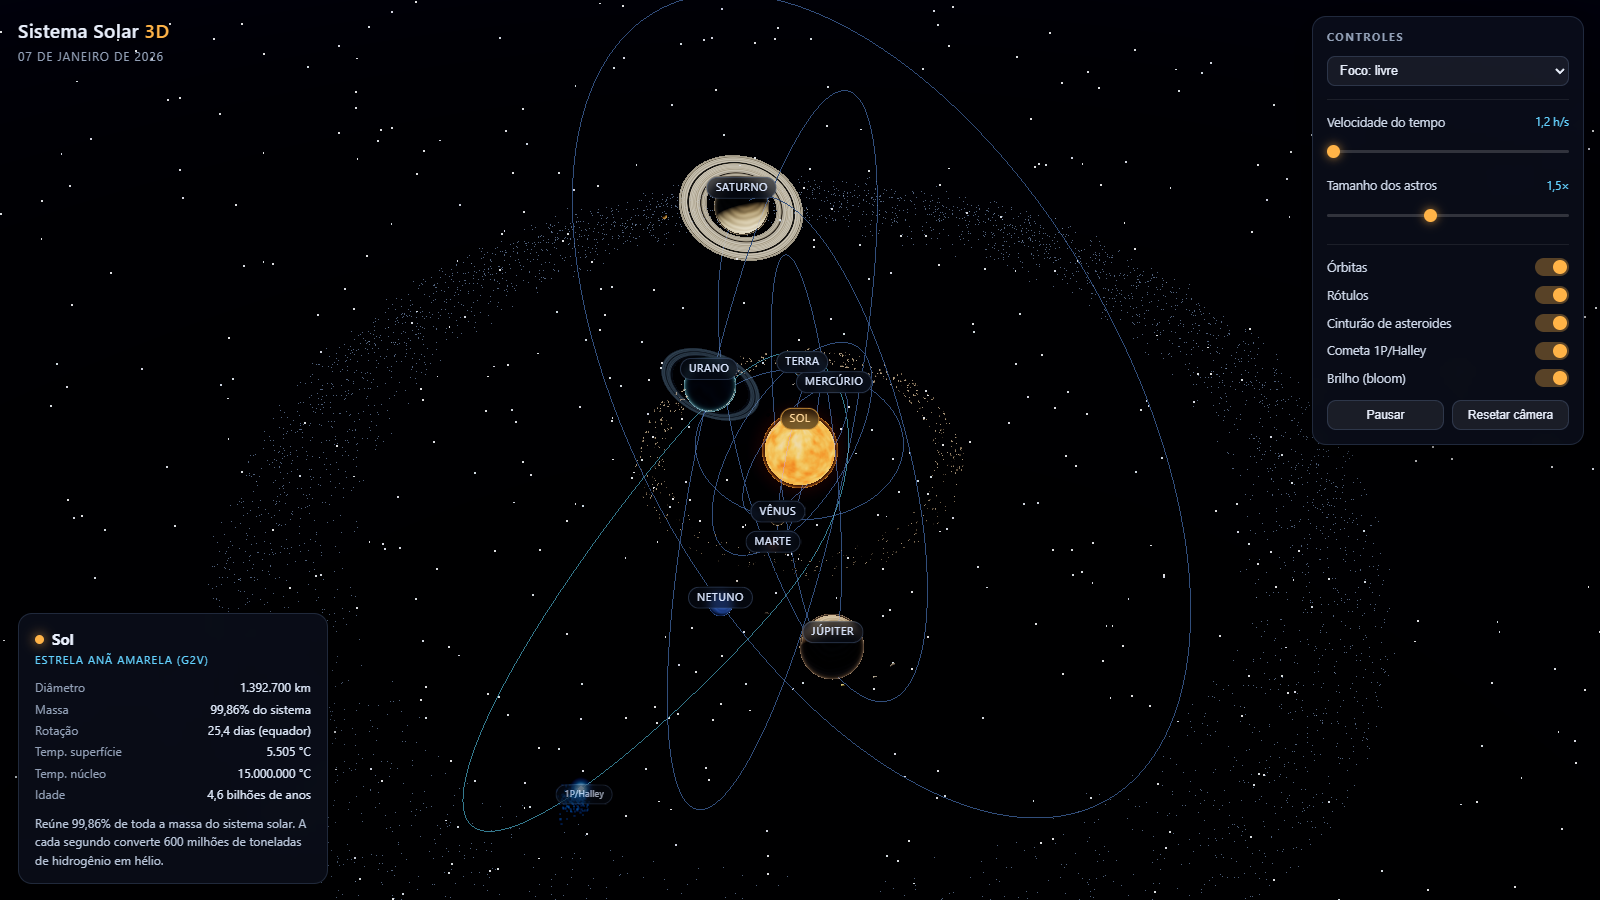
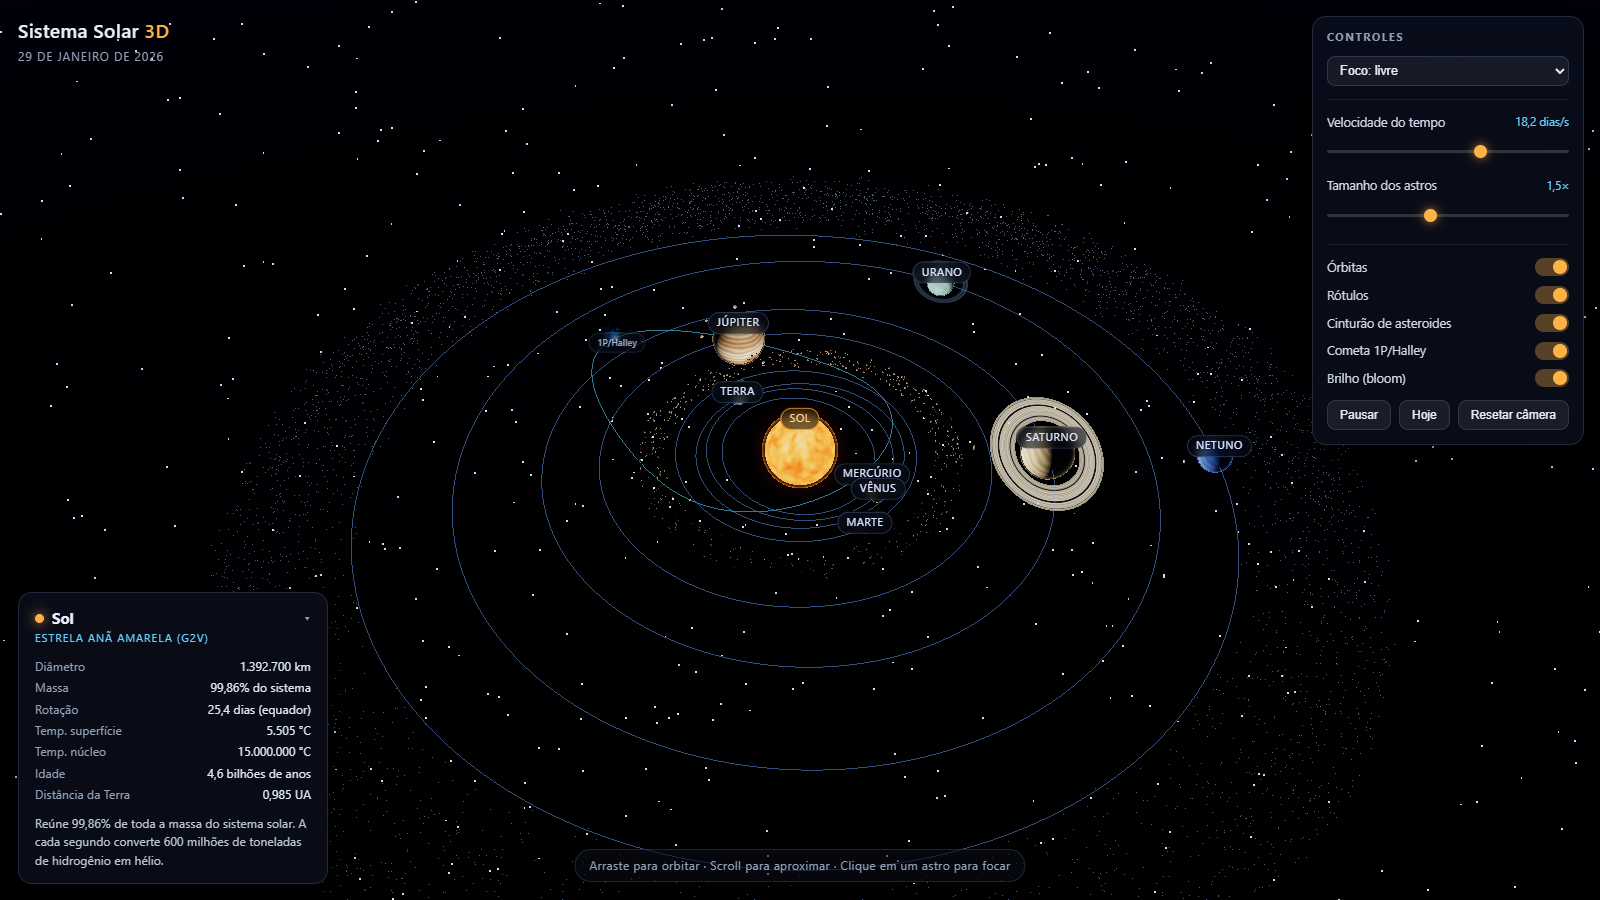
Adiciona botão "Hoje" para saltar para a data atual e atualiza a exibição da distância à Terra com base nas posições reais dos astros.

diff --git a/index.html b/index.html
@@ -88,9 +88,9 @@
     border-radius:8px;padding:6px 8px;font-size:12.5px;outline:none;cursor:pointer
   }
   select option{background:#0b1020}
-  .btns{display:flex;gap:8px;margin-top:12px}
+  .btns{display:flex;flex-wrap:wrap;gap:8px;margin-top:12px}
   button{
-    flex:1;background:rgba(255,255,255,.07);color:var(--txt);border:1px solid var(--brd);border-radius:9px;
+    flex:1 1 auto;background:rgba(255,255,255,.07);color:var(--txt);border:1px solid var(--brd);border-radius:9px;
     padding:7px 8px;font-size:12px;cursor:pointer;transition:background .18s,transform .1s
   }
   button:hover{background:rgba(255,255,255,.14)}
@@ -217,6 +217,7 @@
     <div class="row"><label for="tBloom">Brilho (bloom)</label><input type="checkbox" id="tBloom" checked></div>
     <div class="btns">
       <button id="btnPause">Pausar</button>
+      <button id="btnToday" title="Ir para a data de hoje">Hoje</button>
       <button id="btnReset">Resetar câmera</button>
     </div>
   </section>
@@ -553,6 +554,15 @@ const auToScene = (au) => 9 + 19 * Math.sqrt(Math.max(au, 0));    // distância 
 const radiusToScene = (rEarth) => 1.35 * Math.pow(rEarth, 0.55);  // raio visual
 /* LOD de geometria: corpos pequenos usam menos segmentos (imperceptível na tela) */
 const sphereGeo = (r) => new THREE.SphereGeometry(r, r < 0.3 ? 20 : r < 1 ? 32 : r < 3 ? 48 : 64, r < 0.3 ? 14 : r < 1 ? 24 : r < 3 ? 32 : 48);
+
+/* Posição heliocêntrica em UA: mesmas rotações usadas na cena (Ry(Ω)·Rx(i) sobre o ângulo
+   no plano u = ω + ν), sem a compressão de escala — serve para distâncias reais. */
+function setPosAU(out, p, u, rAU) {
+  const x = rAU * Math.cos(u), y = rAU * Math.sin(u);
+  const si = Math.sin(p.incl * DEG), ci = Math.cos(p.incl * DEG);
+  const sO = Math.sin(p.node * DEG), cO = Math.cos(p.node * DEG);
+  out.set(x * cO - y * ci * sO, y * si, -x * sO - y * ci * cO);
+}
 const MOON_SCALE = 0.55;
 const MOON_DIST = 1.0;
 
@@ -563,9 +573,12 @@ const SUN_INFO = {
   desc: 'Reúne 99,86% de toda a massa do sistema solar. A cada segundo converte 600 milhões de toneladas de hidrogênio em hélio.'
 };
 
+/* Elementos orbitais J2000 (JPL, aproximados): a em UA; incl (i), node (Ω) e w (ω, argumento
+   do periélio) em graus; M0 = anomalia média em J2000 em radianos. As posições são propagadas
+   a partir de J2000 pelo período orbital. */
 const PLANETS = [
   {
-    key: 'mercury', name: 'Mercúrio', a: 0.3871, e: 0.2056, periodYears: 0.2408, incl: 7.005, node: 48, M0: 0.2,
+    key: 'mercury', name: 'Mercúrio', a: 0.3871, e: 0.2056, periodYears: 0.2408, incl: 7.005, node: 48, w: 29.127, M0: 3.0507,
     radiusEarth: 0.383, tilt: 0.034, rotHours: 1407.6,
     tex: { type: 'rocky', base: [150, 140, 130], dark: [72, 66, 62], light: [206, 198, 188], craters: 160, freq: 8, seed: 11, contrast: 1.2 },
     atmo: { color: 0x9fb4d8, strength: 0.12, power: 4 },
@@ -573,7 +586,7 @@ const PLANETS = [
     desc: 'O menor planeta e o mais rápido: completa uma volta ao redor do Sol em apenas 88 dias, mas leva 58,6 dias para girar sobre si mesmo.'
   },
   {
-    key: 'venus', name: 'Vênus', a: 0.7233, e: 0.0068, periodYears: 0.6152, incl: 3.395, node: 77, M0: 2.95,
+    key: 'venus', name: 'Vênus', a: 0.7233, e: 0.0068, periodYears: 0.6152, incl: 3.395, node: 77, w: 54.923, M0: 0.8793,
     radiusEarth: 0.949, tilt: 177.4, rotHours: -5832.5,
     tex: { type: 'gas', seed: 21, bands: 14, contrast: 0.14, stops: [[0, [186, 152, 104]], [0.35, [226, 198, 148]], [0.6, [244, 222, 176]], [1, [206, 182, 138]]] },
     atmo: { color: 0xffd9a0, strength: 0.55, power: 2.6 },
@@ -581,7 +594,7 @@ const PLANETS = [
     desc: 'O planeta mais quente do sistema solar. A densa atmosfera de CO₂ cria um efeito estufa desenfreado — e gira ao contrário de quase todos os planetas.'
   },
   {
-    key: 'earth', name: 'Terra', a: 1.0, e: 0.0167, periodYears: 1.0, incl: 0.0, node: 0, M0: 1.4,
+    key: 'earth', name: 'Terra', a: 1.0, e: 0.0167, periodYears: 1.0, incl: 0.0, node: 0, w: 102.938, M0: 6.2390,
     radiusEarth: 1.0, tilt: 23.44, rotHours: 23.934,
     earth: true,
     atmo: { color: 0x6fb4ff, strength: 0.85, power: 2.4 },
@@ -590,7 +603,7 @@ const PLANETS = [
     desc: 'O único mundo conhecido com água líquida em abundância na superfície — e o único onde a vida foi confirmada.'
   },
   {
-    key: 'mars', name: 'Marte', a: 1.5237, e: 0.0934, periodYears: 1.8808, incl: 1.85, node: 49, M0: 4.5,
+    key: 'mars', name: 'Marte', a: 1.5237, e: 0.0934, periodYears: 1.8808, incl: 1.85, node: 49, w: 286.497, M0: 0.3384,
     radiusEarth: 0.532, tilt: 25.19, rotHours: 24.623,
     tex: { type: 'rocky', base: [176, 96, 58], dark: [104, 52, 34], light: [214, 156, 114], craters: 90, freq: 6, seed: 31, contrast: 1.15 },
     atmo: { color: 0xffb08a, strength: 0.2, power: 3.4 },
@@ -602,7 +615,7 @@ const PLANETS = [
     desc: 'Abriga o Monte Olimpo, o maior vulcão do sistema solar, com 22 km de altura — quase três Everest.'
   },
   {
-    key: 'jupiter', name: 'Júpiter', a: 5.2026, e: 0.0489, periodYears: 11.862, incl: 1.303, node: 100, M0: 3.6,
+    key: 'jupiter', name: 'Júpiter', a: 5.2026, e: 0.0489, periodYears: 11.862, incl: 1.303, node: 100, w: 274.255, M0: 0.3433,
     radiusEarth: 11.209, tilt: 3.13, rotHours: 9.925,
     tex: { type: 'gas', seed: 51, bands: 34, contrast: 0.17, spot: true,
       stops: [[0, [156, 132, 106]], [0.18, [214, 196, 166]], [0.36, [176, 138, 106]], [0.52, [232, 218, 194]],
@@ -618,7 +631,7 @@ const PLANETS = [
     desc: 'O gigante do sistema: caberiam 1.300 Terras em seu interior. A Grande Mancha Vermelha é uma tempestade maior que o nosso planeta, ativa há séculos.'
   },
   {
-    key: 'saturn', name: 'Saturno', a: 9.5549, e: 0.0565, periodYears: 29.457, incl: 2.489, node: 113, M0: 0.75,
+    key: 'saturn', name: 'Saturno', a: 9.5549, e: 0.0565, periodYears: 29.457, incl: 2.489, node: 113, w: 338.937, M0: 5.5389,
     radiusEarth: 9.449, tilt: 26.73, rotHours: 10.656,
     tex: { type: 'gas', seed: 61, bands: 22, contrast: 0.1,
       stops: [[0, [186, 164, 122]], [0.3, [226, 208, 168]], [0.55, [244, 232, 200]], [0.8, [216, 196, 156]], [1, [178, 156, 120]]] },
@@ -632,7 +645,7 @@ const PLANETS = [
     desc: 'Seus anéis se estendem por 280 mil km, mas têm em média só 10 metros de espessura. É menos denso que a água: flutuaria num oceano gigante.'
   },
   {
-    key: 'uranus', name: 'Urano', a: 19.2184, e: 0.0457, periodYears: 84.02, incl: 0.773, node: 74, M0: 2.2,
+    key: 'uranus', name: 'Urano', a: 19.2184, e: 0.0457, periodYears: 84.02, incl: 0.773, node: 74, w: 96.937, M0: 2.4833,
     radiusEarth: 4.007, tilt: 97.77, rotHours: -17.24,
     tex: { type: 'gas', seed: 71, bands: 10, contrast: 0.07,
       stops: [[0, [140, 200, 208]], [0.45, [178, 226, 232]], [1, [148, 208, 216]]] },
@@ -643,7 +656,7 @@ const PLANETS = [
     desc: 'Gira deitado: seu eixo é inclinado 98°, provavelmente por uma colisão colossal. Cada polo passa 42 anos na luz e 42 na escuridão.'
   },
   {
-    key: 'neptune', name: 'Netuno', a: 30.1104, e: 0.0113, periodYears: 164.79, incl: 1.77, node: 131, M0: 5.1,
+    key: 'neptune', name: 'Netuno', a: 30.1104, e: 0.0113, periodYears: 164.79, incl: 1.77, node: 131, w: 273.181, M0: 4.5364,
     radiusEarth: 3.883, tilt: 28.32, rotHours: 16.11,
     tex: { type: 'gas', seed: 81, bands: 14, contrast: 0.09,
       stops: [[0, [36, 68, 158]], [0.4, [66, 108, 208]], [0.7, [104, 148, 232]], [1, [46, 84, 176]]] },
@@ -661,12 +674,14 @@ const ACCENTS = {
 };
 PLANETS.forEach((p) => { p.accent = ACCENTS[p.key]; });
 
-const COMET = { a: 17.834, e: 0.967, incl: 162.26, node: 58.42, M0: 1.0, periodYears: 76.0 };
+/* 1P/Halley — elementos do retorno de 1986 (ω, Ω e inclinação J2000); período e M0
+   calibrados para reproduzir os periélios de 09/02/1986 e 28/07/2061. */
+const COMET = { a: 17.834, e: 0.967, incl: 162.26, node: 58.42, w: 111.33, M0: 1.1568, periodYears: 75.47 };
 const COMET_INFO = {
   name: '1P/Halley', tagline: 'Cometa periódico', accent: '#a8ecff',
-  items: [['Período orbital', '76 anos'], ['Periélio', '0,586 UA'], ['Afélio', '35,1 UA'], ['Inclinação', '162,3° (retrógrado)'],
+  items: [['Período orbital', '75,5 anos'], ['Periélio', '0,586 UA'], ['Afélio', '35,1 UA'], ['Inclinação', '162,3° (retrógrado)'],
     ['Último periélio', '9 de fevereiro de 1986'], ['Próximo periélio', '28 de julho de 2061']],
-  desc: 'O cometa mais famoso da história. Sua órbita retrógrada e alongada o traz de volta ao Sol a cada 76 anos.'
+  desc: 'O cometa mais famoso da história. Sua órbita retrógrada e alongada o traz de volta ao Sol a cada 75 anos.'
 };
 
 /* =========================================================================
@@ -842,7 +857,7 @@ sunGlow.scale.setScalar(SUN_RADIUS * 3.1);
 scene.add(sunGlow);
 scene.add(makeAtmosphere(SUN_RADIUS * 1.03, { color: 0xffa53c, strength: 0.55, power: 2.6 }));
 
-const sunBody = { key: 'sun', name: 'Sol', radiusVisual: SUN_RADIUS, holder: sunMesh, label: null, info: SUN_INFO, sun: true, mesh: sunMesh };
+const sunBody = { key: 'sun', name: 'Sol', radiusVisual: SUN_RADIUS, holder: sunMesh, label: null, info: SUN_INFO, sun: true, mesh: sunMesh, posAU: new THREE.Vector3() };
 sunBody.label = makeLabel('Sol', '', SUN_RADIUS + 1.8);
 scene.add(sunBody.label);
 sunMesh.userData.body = sunBody;
@@ -862,8 +877,10 @@ function buildPlanet(p) {
   for (let i = 0; i <= 320; i++) {
     const E = (i / 320) * TAU;
     const nu = 2 * Math.atan2(Math.sqrt(1 + p.e) * Math.sin(E / 2), Math.sqrt(1 - p.e) * Math.cos(E / 2));
+    const u = nu + p.w * DEG;
     const rad = auToScene(p.a * (1 - p.e * Math.cos(E)));
-    pts.push(new THREE.Vector3(Math.cos(nu) * rad, Math.sin(nu) * rad, 0));
+    // o plano orbital é o XZ (eclíptica); o eixo local Y é o polo (normal da órbita)
+    pts.push(new THREE.Vector3(Math.cos(u) * rad, 0, -Math.sin(u) * rad));
   }
   const orbitMat = new THREE.LineBasicMaterial({ color: 0x6d8fc7, transparent: true, opacity: 0.3 });
   orbitMat.userData.baseOpacity = 0.3;
@@ -932,9 +949,10 @@ function buildPlanet(p) {
     moons.push({ data: m, pivot, holder: mh, mesh: mm, label: mLabel, radiusVisual: mr });
   }
 
+  const posAU = new THREE.Vector3();   // posição heliocêntrica real (UA), atualizada no loop
   const body = {
     key: p.key, name: p.name, radiusVisual: r, holder, mesh, axis, label, moons,
-    orbitMat, orbitLine, planet: p,
+    orbitMat, orbitLine, planet: p, posAU,
     info: {
       name: p.name,
       tagline: p.radiusEarth > 3 ? 'Gigante gasoso' : 'Planeta rochoso',
@@ -946,7 +964,7 @@ function buildPlanet(p) {
   allBodies.push(body);
 
   return {
-    data: p, orbitPlane, holder, mesh, axis, label, orbitMat, orbitLine, moons, radiusVisual: r, clouds, body
+    data: p, orbitPlane, holder, mesh, axis, label, orbitMat, orbitLine, moons, radiusVisual: r, clouds, body, posAU
   };
 }
 
@@ -1015,8 +1033,9 @@ function makeComet() {
   for (let i = 0; i <= 400; i++) {
     const E = (i / 400) * TAU;
     const nu = 2 * Math.atan2(Math.sqrt(1 + COMET.e) * Math.sin(E / 2), Math.sqrt(1 - COMET.e) * Math.cos(E / 2));
+    const u = nu + COMET.w * DEG;
     const rad = auToScene(COMET.a * (1 - COMET.e * Math.cos(E)));
-    pts.push(new THREE.Vector3(Math.cos(nu) * rad, Math.sin(nu) * rad, 0));
+    pts.push(new THREE.Vector3(Math.cos(u) * rad, 0, -Math.sin(u) * rad));
   }
   const orbitMat = new THREE.LineBasicMaterial({ color: 0x7fe0ff, transparent: true, opacity: 0.22 });
   orbitMat.userData.baseOpacity = 0.22;
@@ -1050,7 +1069,7 @@ function makeComet() {
   }));
   scene.add(tail);
 
-  const body = { key: 'comet', name: '1P/Halley', radiusVisual: 1.2, holder, mesh: nucleus, label, info: COMET_INFO, comet: true, orbitMat, orbitLine };
+  const body = { key: 'comet', name: '1P/Halley', radiusVisual: 1.2, holder, mesh: nucleus, label, info: COMET_INFO, comet: true, orbitMat, orbitLine, posAU: new THREE.Vector3() };
   nucleus.userData.body = body;
   allBodies.push(body);
 
@@ -1083,8 +1102,10 @@ const els = {
   tOrbits: document.getElementById('tOrbits'), tLabels: document.getElementById('tLabels'),
   tBelt: document.getElementById('tBelt'), tComet: document.getElementById('tComet'), tBloom: document.getElementById('tBloom'),
   btnPause: document.getElementById('btnPause'), btnReset: document.getElementById('btnReset'),
+  btnToday: document.getElementById('btnToday'),
   infoName: document.getElementById('infoName'), infoTag: document.getElementById('infoTag'),
   infoList: document.getElementById('infoList'), infoDesc: document.getElementById('infoDesc'), infoDot: document.getElementById('infoDot'),
+  infoDist: null,   // criado a cada ui.info()
   progressBar: document.getElementById('progressBar'), progressText: document.getElementById('progressText'),
   loading: document.getElementById('loading'), hint: document.getElementById('hint'),
   panel: document.getElementById('panel'), panelToggle: document.getElementById('panelToggle'),
@@ -1101,7 +1122,9 @@ const ui = {
     els.infoName.textContent = data.name;
     els.infoTag.textContent = data.tagline || (data.comet ? 'Corpo menor' : '');
     els.infoTag.style.display = els.infoTag.textContent ? '' : 'none';
-    els.infoList.innerHTML = (data.items || []).map(([k, v]) => `<dt>${k}</dt><dd>${v}</dd>`).join('');
+    els.infoList.innerHTML = (data.items || []).map(([k, v]) => `<dt>${k}</dt><dd>${v}</dd>`).join('') +
+      '<dt>Distância da Terra</dt><dd id="infoDist">—</dd>';
+    els.infoDist = document.getElementById('infoDist');
     els.infoDesc.textContent = data.desc || '';
     const cor = data.accent || '#ffb347';
     els.infoDot.style.background = cor;
@@ -1114,9 +1137,10 @@ const ui = {
 
 const sliderToSpeed = (v) => 0.05 * Math.pow(10000, v / 100);
 
-/* data simulada */
+/* data simulada — simDays conta os dias desde a época dos elementos orbitais (J2000) */
+const J2000 = Date.UTC(2000, 0, 1, 12);
 const START = Date.UTC(2026, 0, 1);
-let simDays = 0;
+let simDays = (START - J2000) / 86400000;
 const dateFmt = new Intl.DateTimeFormat('pt-BR', { day: '2-digit', month: 'long', year: 'numeric', timeZone: 'UTC' });
 
 /* =========================================================================
@@ -1124,12 +1148,13 @@ const dateFmt = new Intl.DateTimeFormat('pt-BR', { day: '2-digit', month: 'long'
    ========================================================================= */
 const nextFrame = () => new Promise((res) => requestAnimationFrame(() => setTimeout(res, 0)));
 
-let belt, kuiper, comet;
+let belt, kuiper, comet, earth;
 
 async function init() {
   ui.progress(0.05, 'Carregando three.js do CDN…');
   await nextFrame();
   await buildAll();
+  earth = built.find((b) => b.data.earth);
   ui.progress(0.8, 'Montando cinturões…');
   await nextFrame();
   belt = makeAsteroidBelt(); scene.add(belt);
@@ -1292,6 +1317,7 @@ function bindUI() {
   els.tBloom.addEventListener('change', () => { state.bloom = els.tBloom.checked; bloom.enabled = state.bloom; requestRender(); });
 
   els.btnPause.addEventListener('click', togglePause);
+  els.btnToday.addEventListener('click', goToday);
 
   addEventListener('keydown', (e) => {
     const tag = e.target.tagName;
@@ -1303,11 +1329,19 @@ function bindUI() {
     if (e.key.toLowerCase() === 'l') { els.tLabels.checked = !els.tLabels.checked; els.tLabels.dispatchEvent(new Event('change')); }
     if (e.key.toLowerCase() === 'o') { els.tOrbits.checked = !els.tOrbits.checked; els.tOrbits.dispatchEvent(new Event('change')); }
     if (e.key.toLowerCase() === 'r') els.btnReset.click();
+    if (e.key.toLowerCase() === 'h') goToday();
   });
 }
 function togglePause() {
   state.paused = !state.paused;
   els.btnPause.textContent = state.paused ? 'Retomar' : 'Pausar';
+}
+
+/* salta a simulação para a data de hoje (posições reais aproximadas) */
+function goToday() {
+  simDays = (Date.now() - J2000) / 86400000;
+  lastDayInt = -1;        // força a reformatação do rótulo de data
+  requestRender();
 }
 
 /* =========================================================================
@@ -1332,8 +1366,10 @@ function updateBodies(dt) {
   for (const b of built) {
     const p = b.data;
     const k = kepler(p.M0 + (simDays / (p.periodYears * 365.25)) * TAU, p.e);
+    const u = k.nu + p.w * DEG;              // argumento do periélio + anomalia verdadeira
     const rad = auToScene(p.a * k.rr);
-    b.holder.position.set(Math.cos(k.nu) * rad, Math.sin(k.nu) * rad, 0);
+    b.holder.position.set(Math.cos(u) * rad, 0, -Math.sin(u) * rad);
+    setPosAU(b.posAU, p, u, p.a * k.rr);     // posição real em UA (base da distância à Terra)
 
     const rotDays = Math.abs(p.rotHours) / 24;
     const rate = (TAU / rotDays) * (state.paused ? 0 : state.speed);
@@ -1356,9 +1392,11 @@ function updateBodies(dt) {
   // ---- cometa
   if (comet) {
     const k = kepler(COMET.M0 + (simDays / (COMET.periodYears * 365.25)) * TAU, COMET.e);
+    const u = k.nu + COMET.w * DEG;
     const rAU = COMET.a * k.rr;
     const rad = auToScene(rAU);
-    comet.holder.position.set(Math.cos(k.nu) * rad, Math.sin(k.nu) * rad, 0);
+    comet.holder.position.set(Math.cos(u) * rad, 0, -Math.sin(u) * rad);
+    setPosAU(comet.body.posAU, COMET, u, rAU);
 
     const wp = comet.holder.getWorldPosition(tmpV3);
     const sunDir = tmpV2.copy(wp).normalize();
@@ -1413,7 +1451,13 @@ function updateBodies(dt) {
   const dia = Math.floor(simDays);
   if (dia !== lastDayInt) {
     lastDayInt = dia;
-    els.date.textContent = dateFmt.format(new Date(START + dia * 86400000));
+    els.date.textContent = dateFmt.format(new Date(J2000 + dia * 86400000));
+  }
+
+  // ---- distância atual à Terra, a partir das posições heliocêntricas reais
+  if (earth && els.infoDist && state.selected && state.selected.posAU) {
+    const txt = earth.posAU.distanceTo(state.selected.posAU).toFixed(3).replace('.', ',') + ' UA';
+    if (els.infoDist.textContent !== txt) els.infoDist.textContent = txt;
   }
 }
 

diff --git a/README.md b/README.md
@@ -41,16 +41,23 @@ Depois abra <http://localhost:5500>.
 | Velocidade do tempo | slider (0,05 a 500 dias por segundo) |
 | Tamanho dos astros | slider (0,4× a 3×) — não altera as órbitas |
 | Voltar à visão geral | botão **Resetar câmera** ou `R` |
-| Atalhos | `+` / `-` velocidade · `O` órbitas · `L` rótulos · `R` reset |
+| Ir para a data de hoje | botão **Hoje** ou `H` |
+| Atalhos | `+` / `-` velocidade · `O` órbitas · `L` rótulos · `R` reset · `H` hoje |
 
 Camadas que podem ser ligadas/desligadas: órbitas, rótulos, cinturão de asteroides,
 cometa 1P/Halley e o efeito de brilho (*bloom*).
 
 ## O que está simulado
 
-- **Órbitas keplerianas reais**: cada planeta usa semi-eixo maior, excentricidade,
-  inclinação e período verdadeiros; a equação de Kepler (Newton-Raphson) é resolvida
-  a cada quadro, então os planetas aceleram no periélio e desaceleram no afélio.
+- **Órbitas keplerianas reais**: cada planeta usa os elementos orbitais J2000 (semi-eixo
+  maior, excentricidade, inclinação, longitude do nodo ascendente Ω e argumento do periélio ω)
+  e a anomalia média em J2000, de modo que as posições são as **reais e aproximadas** para a
+  data simulada. A equação de Kepler (Newton-Raphson) é resolvida a cada quadro, então os
+  planetas aceleram no periélio e desaceleram no afélio.
+- **Eclíptica única**: órbitas dos planetas, cometa, cinturão de asteroides e Cinturão de
+  Kuiper ficam todos no mesmo plano, e o eixo de rotação de cada planeta é perpendicular à
+  sua órbita (inclinado pela obliquidade real) — é o que põe os anéis e as bandas na
+  orientação correta.
 - **Rotação e inclinação axial** de cada planeta (Vênus e Urano com rotação retrógrada;
   Urano com eixo inclinado 98°).
 - **Luas**: Lua, Fobos, Deimos, as quatro luas galileanas, Encélado, Titã, Titânia e Tritão,
@@ -59,7 +66,9 @@ cometa 1P/Halley e o efeito de brilho (*bloom*).
 - **Cinturão de asteroides** (1.600 rochas instanciadas), **Cinturão de Kuiper** e o
   **cometa 1P/Halley** com cauda que aponta sempre para o lado oposto ao Sol e cresce
   perto do periélio.
-- **Data simulada** exibida no cabeçalho (parte de 1º de janeiro de 2026).
+- **Data simulada** exibida no cabeçalho (parte de 1º de janeiro de 2026; o botão **Hoje**
+  salta para a data atual) e **distância atual à Terra**, calculada das posições reais, no
+  painel do astro selecionado.
 
 ### Texturas
 
